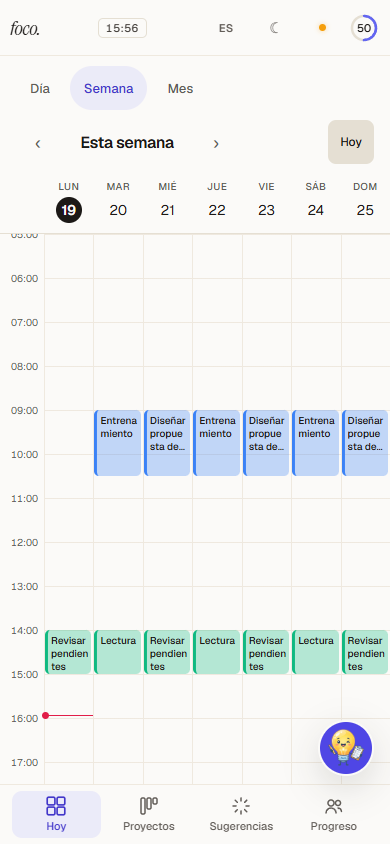
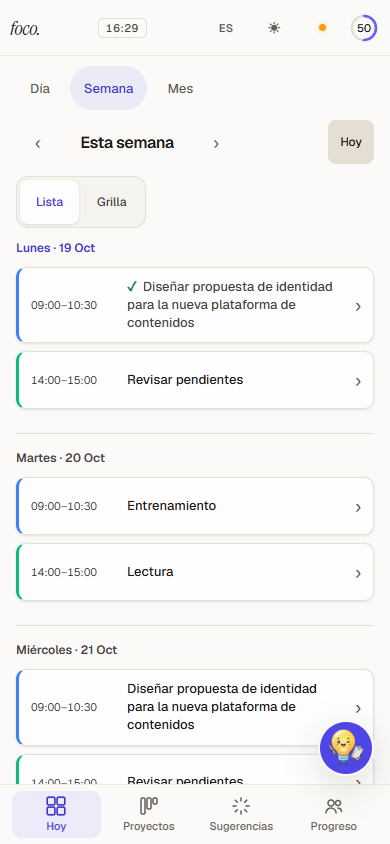
Mostrar Semana como lista legible en celulares

diff --git a/public/app.js b/public/app.js
@@ -131,6 +131,7 @@ const I18N_UI = {
     themeToggleTitle: 'Cambiar tema', notifTitle: 'Notificaciones', goalBarLabel: 'foco semanal',
     pillDay: 'Día', pillWeek: 'Semana', pillMonth: 'Mes',
     hoyTitleDefault: 'Hoy', hoySectionFoco: 'Tu foco', sgToday: 'Hoy',
+    sgViewMode: 'Vista de la semana', sgList: 'Lista', sgGrid: 'Grilla', sgNoEvents: 'Sin actividades',
     hoyAgenda: 'Agenda', hoyEmptyTitle: 'Un día con espacio para elegir.', hoyEmptyHint: 'Tocá un horario para sumar una actividad.',
     hoySummaryEmpty: 'Todavía no hay actividades', hoySummaryOne: '1 actividad', hoySummaryMany: '{count} actividades', hoySummaryDoneOne: '1 completada', hoySummaryDoneMany: '{count} completadas',
     slabProximas: 'Próximas fechas', recordaNombrePh: 'Ej: Parcial física', guardar: 'Guardar',
@@ -221,6 +222,7 @@ const I18N_UI = {
     themeToggleTitle: 'Toggle theme', notifTitle: 'Notifications', goalBarLabel: 'weekly focus',
     pillDay: 'Day', pillWeek: 'Week', pillMonth: 'Month',
     hoyTitleDefault: 'Today', hoySectionFoco: 'Your focus', sgToday: 'Today',
+    sgViewMode: 'Week view', sgList: 'List', sgGrid: 'Grid', sgNoEvents: 'No activities',
     hoyAgenda: 'Schedule', hoyEmptyTitle: 'A day with room to choose.', hoyEmptyHint: 'Tap a time slot to add an activity.',
     hoySummaryEmpty: 'No activities yet', hoySummaryOne: '1 activity', hoySummaryMany: '{count} activities', hoySummaryDoneOne: '1 completed', hoySummaryDoneMany: '{count} completed',
     slabProximas: 'Upcoming dates', recordaNombrePh: 'E.g: Physics exam', guardar: 'Save',
@@ -1480,6 +1482,16 @@ function updateMomentum() {
 const ALTO_HORA = 44; // px por hora — debe coincidir con background-size de .sg-day-col en style.css
 let gridWeekOffset = 0; // semana mostrada acá, independiente de weekOffset (que es para el ring/Sugerencias)
 
+function setWeekMobileLayout(layout) {
+  if (layout !== 'list' && layout !== 'grid') return;
+  document.getElementById('view-semana-grid').dataset.mobileLayout = layout;
+  ['list', 'grid'].forEach(id => {
+    const btn = document.getElementById('sg-layout-' + id);
+    btn.classList.toggle('active', id === layout);
+    btn.setAttribute('aria-pressed', String(id === layout));
+  });
+}
+
 async function changeGridWeek(dir) {
   gridWeekOffset += dir;
   await loadWeek(gridWeekOffset);
@@ -1601,6 +1613,33 @@ function renderSemanaGrid() {
       return `<div class="sg-day-col" data-date="${dateISO}" data-hora-base="${horaBase}" style="height:${alturaTotal}px">${renderGridColumnHTML(dateISO, horaBase, horaTope, isToday(d))}</div>`;
     }).join('');
   }
+  renderWeekMobileList(week);
+}
+
+function renderWeekMobileList(week) {
+  const list = document.getElementById('sg-mobile-list');
+  if (!list) return;
+  list.innerHTML = week.map(d => {
+    const dateISO = toISO(d);
+    const items = (eventsCache[dateISO] || []).filter(ev => !ev.is_focus)
+      .sort((a, b) => (a.start_time ? timeToMin(a.start_time) : 1440) - (b.start_time ? timeToMin(b.start_time) : 1440));
+    const dayLabel = `${DAYS_FULL[d.getDay()]} · ${d.getDate()} ${MONTHS_SHORT[d.getMonth()]}`;
+    return `<section class="sg-mobile-day${isToday(d) ? ' today' : ''}">
+      <h2 class="sg-mobile-day-title">${escH(dayLabel)}</h2>
+      ${items.length ? items.map(ev => {
+        const time = ev.start_time
+          ? `${ev.start_time.slice(0, 5)}${ev.end_time ? '–' + ev.end_time.slice(0, 5) : ''}`
+          : t('panelSinHora');
+        const label = `${time} · ${ev.title}${ev.done ? ' · ' + t('panelCompletada') : ''}`;
+        return `<button class="sg-mobile-event${ev.done ? ' done' : ''}" style="--event-color:${eventColor(ev.title, ev.area)}"
+          aria-label="${escH(label)}" onclick="openEventPanel(eventsCache['${dateISO}'].find(e=>e.id==='${escH(ev.id)}'), '${dateISO}')">
+          <span class="sg-mobile-event-time">${escH(time)}</span>
+          <span class="sg-mobile-event-title">${escH(ev.title)}</span>
+          <span class="sg-mobile-event-arrow" aria-hidden="true">›</span>
+        </button>`;
+      }).join('') : `<p class="sg-mobile-empty">${t('sgNoEvents')}</p>`}
+    </section>`;
+  }).join('');
 }
 
 // Arma el contenido de una columna de día (bloques posicionados + línea de "ahora")

diff --git a/public/style.css b/public/style.css
@@ -4904,6 +4904,42 @@ input:focus-visible, textarea:focus-visible, select:focus-visible {
   .ptab-grid { grid-template-columns: minmax(0, 1fr); }
 }
 
+/* Semana móvil: títulos completos por día; la grilla horaria sigue a un toque. */
+.sg-mobile-switch, .sg-mobile-list { display: none; }
+@media (max-width: 760px) {
+  .sg-mobile-switch {
+    display: flex; align-self: flex-start; gap: 2px; margin: 2px 16px 12px; padding: 3px;
+    background: var(--bg2); border: 1px solid var(--border2); border-radius: 12px;
+  }
+  .sg-mobile-switch-btn {
+    border: 0; border-radius: 9px; background: transparent; color: var(--text2);
+    padding: 0 16px; font-size: 12px; font-weight: 500; cursor: pointer;
+  }
+  .sg-mobile-switch-btn.active { background: var(--surface); color: var(--accent-text); box-shadow: var(--shadow-card); }
+  #view-semana-grid[data-mobile-layout="list"] .sg-scrollx { display: none; }
+  #view-semana-grid[data-mobile-layout="list"] .sg-mobile-list { display: block; }
+  .sg-mobile-list {
+    flex: 1; min-height: 0; overflow-y: auto; overscroll-behavior: contain;
+    padding: 0 16px calc(148px + env(safe-area-inset-bottom, 0px));
+  }
+  .sg-mobile-day { padding: 0 0 16px; }
+  .sg-mobile-day + .sg-mobile-day { border-top: 1px solid var(--border2); padding-top: 16px; }
+  .sg-mobile-day-title { color: var(--text2); font-size: 12px; font-weight: 600; line-height: 1.4; margin-bottom: 10px; }
+  .sg-mobile-day.today .sg-mobile-day-title { color: var(--accent-text); }
+  .sg-mobile-event {
+    width: 100%; min-height: 58px; display: grid; grid-template-columns: 86px minmax(0, 1fr) 14px;
+    align-items: center; gap: 10px; padding: 10px 12px; margin-bottom: 8px; text-align: left;
+    background: var(--surface); border: 1px solid var(--border2); border-left: 3px solid var(--event-color);
+    border-radius: var(--radius-control); color: var(--text); box-shadow: var(--shadow-card); cursor: pointer;
+  }
+  .sg-mobile-event-time { color: var(--text2); font-size: 11px; font-variant-numeric: tabular-nums; white-space: nowrap; }
+  .sg-mobile-event-title { min-width: 0; font-size: 13px; font-weight: 500; line-height: 1.4; overflow-wrap: anywhere; }
+  .sg-mobile-event-arrow { color: var(--text3); font-size: 19px; text-align: right; }
+  .sg-mobile-event.done .sg-mobile-event-title { color: var(--text2); }
+  .sg-mobile-event.done .sg-mobile-event-title::before { content: '✓'; color: var(--success-text); margin-right: 6px; font-weight: 700; }
+  .sg-mobile-empty { color: var(--text3); font-size: 12px; padding: 4px 2px 8px; }
+}
+
 /* ── Movimiento breve y foco estable ── */
 button:focus-visible, a:focus-visible, [tabindex]:focus-visible,
 input:focus-visible, textarea:focus-visible, select:focus-visible {

diff --git a/public/index.html b/public/index.html
@@ -250,7 +250,7 @@
     </div>
 
     <!-- SEMANA (grilla horaria) -->
-    <div id="view-semana-grid" style="display:none">
+    <div id="view-semana-grid" data-mobile-layout="list" style="display:none">
       <div class="sg-toolbar">
         <div class="sg-toolbar-nav">
           <button class="sg-nav-btn" onclick="changeGridWeek(-1)" data-i18n-aria="a11yPrevious">‹</button>
@@ -259,6 +259,12 @@
         </div>
         <button class="sg-today-btn" onclick="goToCurrentGridWeek()" data-i18n="sgToday">Hoy</button>
       </div>
+
+      <div class="sg-mobile-switch" role="group" data-i18n-aria="sgViewMode">
+        <button class="sg-mobile-switch-btn active" id="sg-layout-list" onclick="setWeekMobileLayout('list')" aria-pressed="true" data-i18n="sgList">Lista</button>
+        <button class="sg-mobile-switch-btn" id="sg-layout-grid" onclick="setWeekMobileLayout('grid')" aria-pressed="false" data-i18n="sgGrid">Grilla</button>
+      </div>
+      <div class="sg-mobile-list" id="sg-mobile-list"></div>
 
       <div class="sg-scrollx">
         <div class="sg-daylabels">
